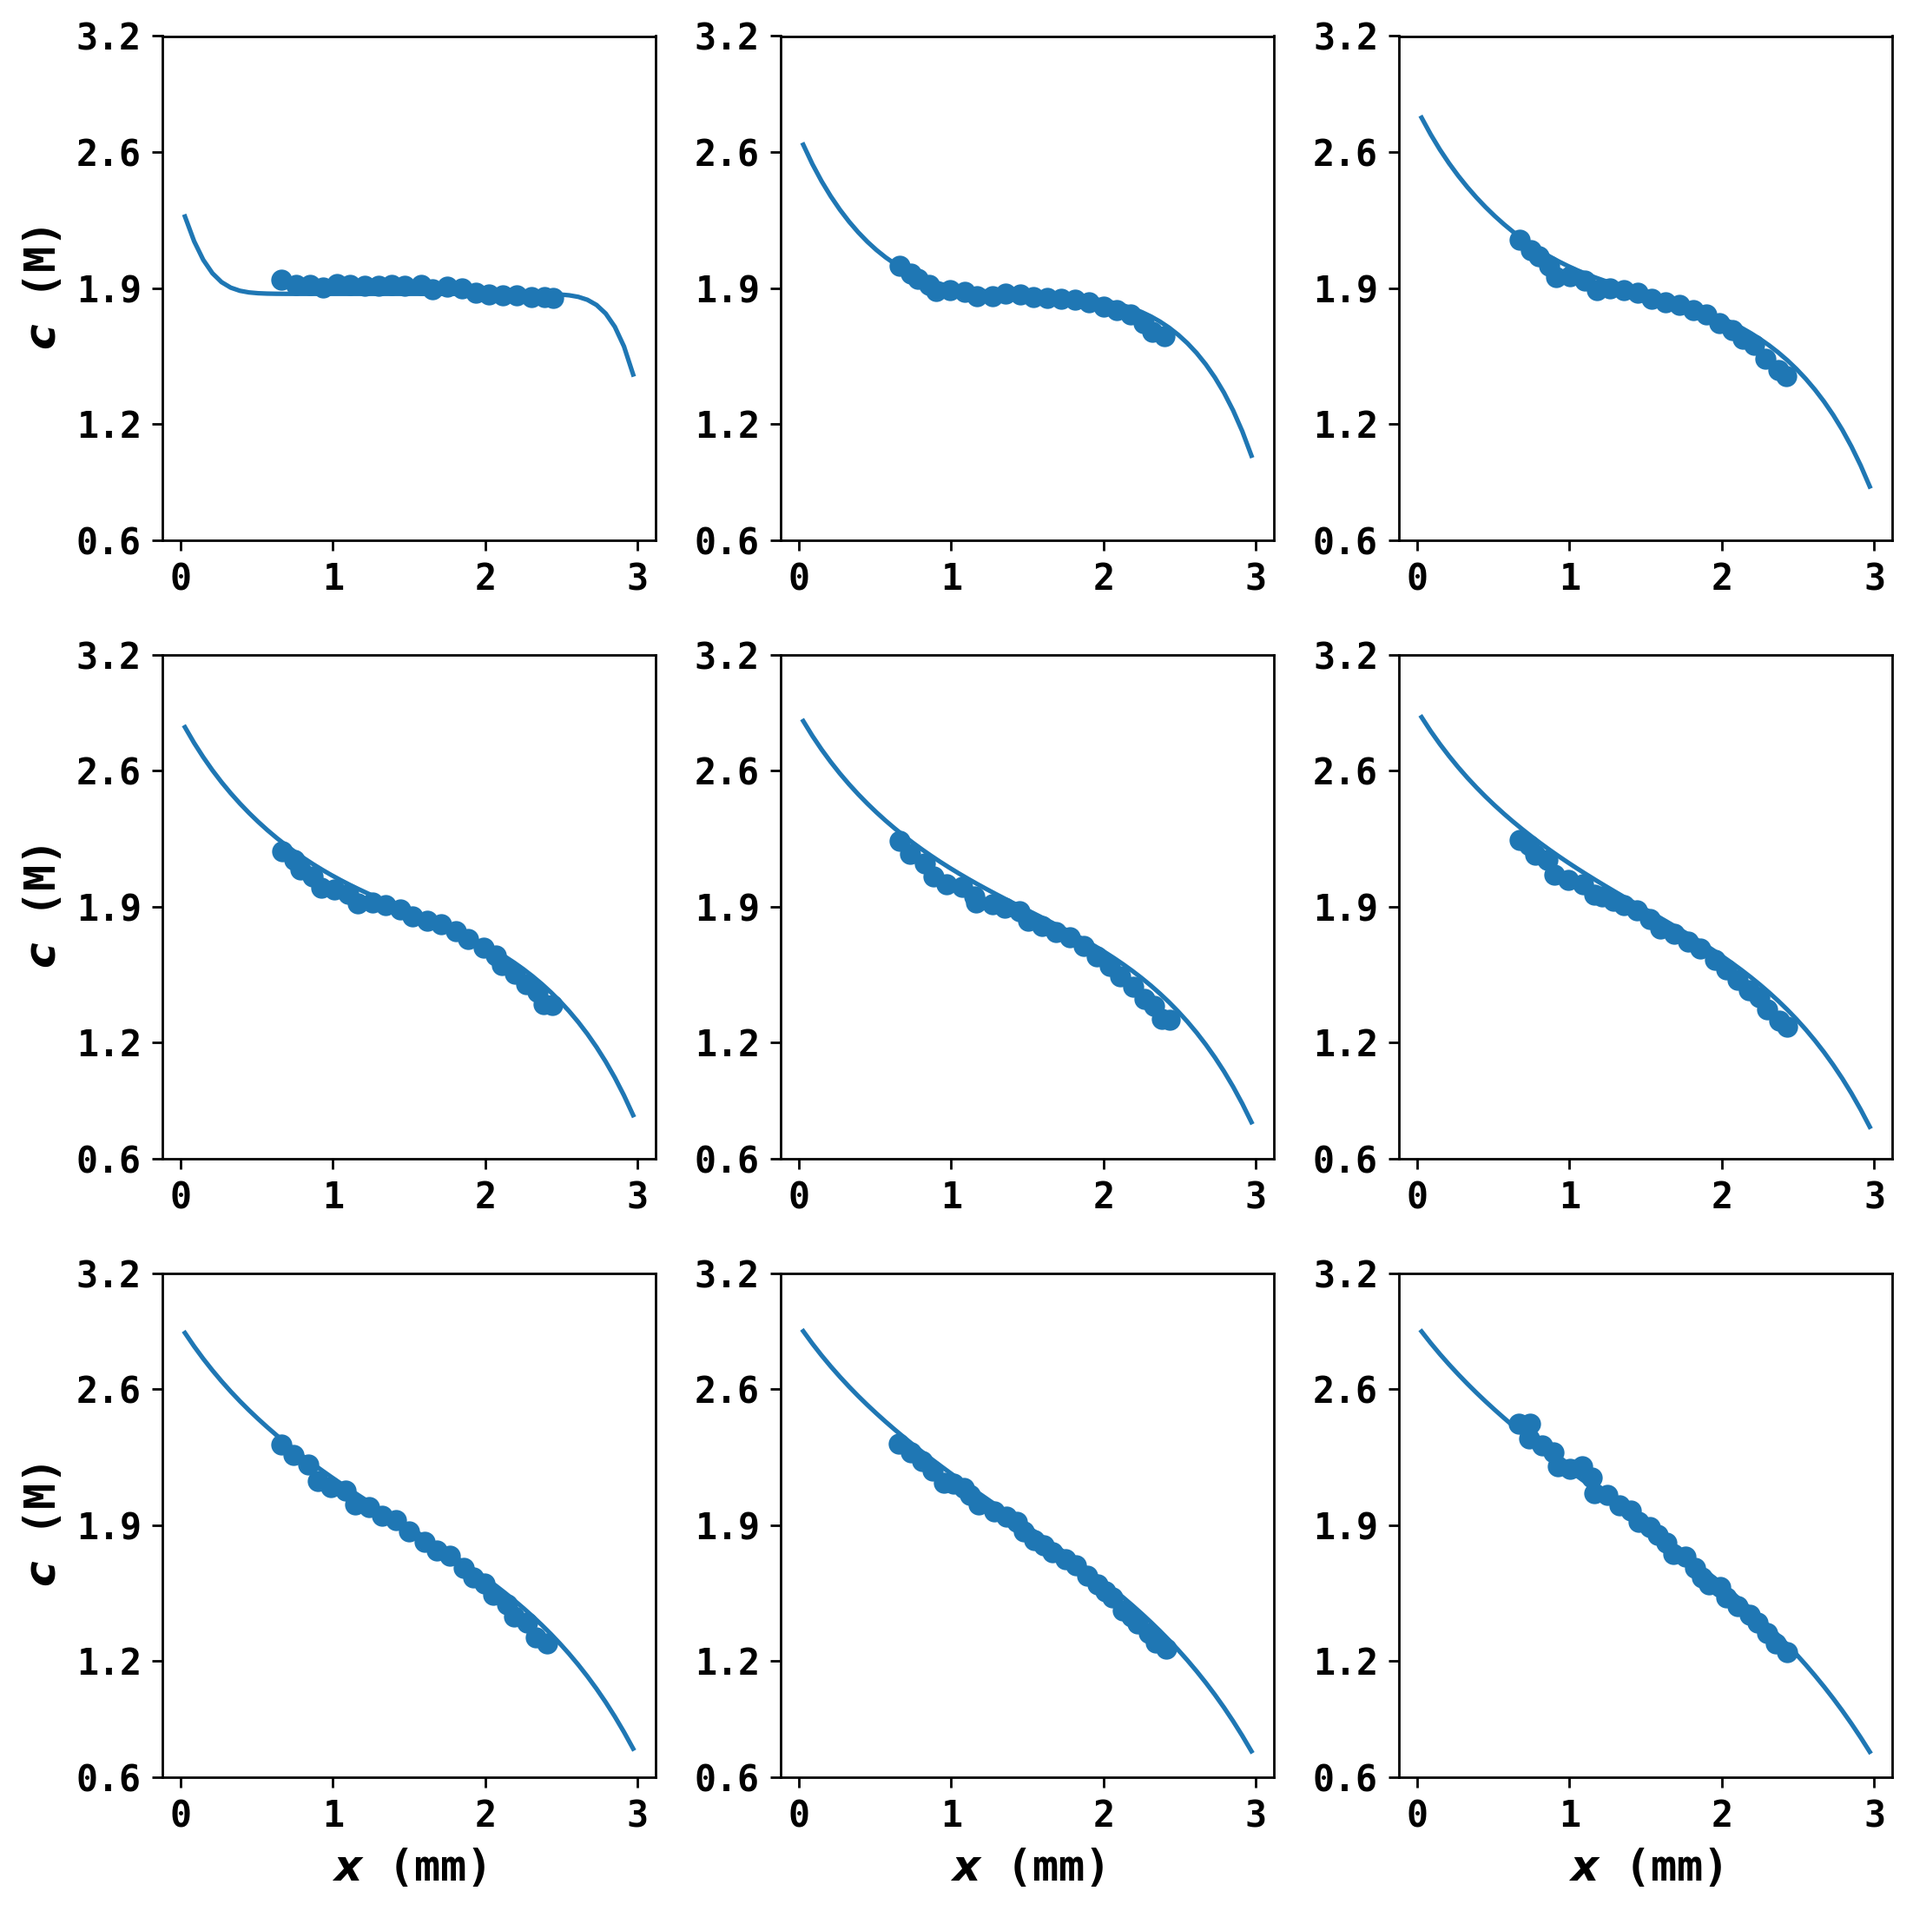
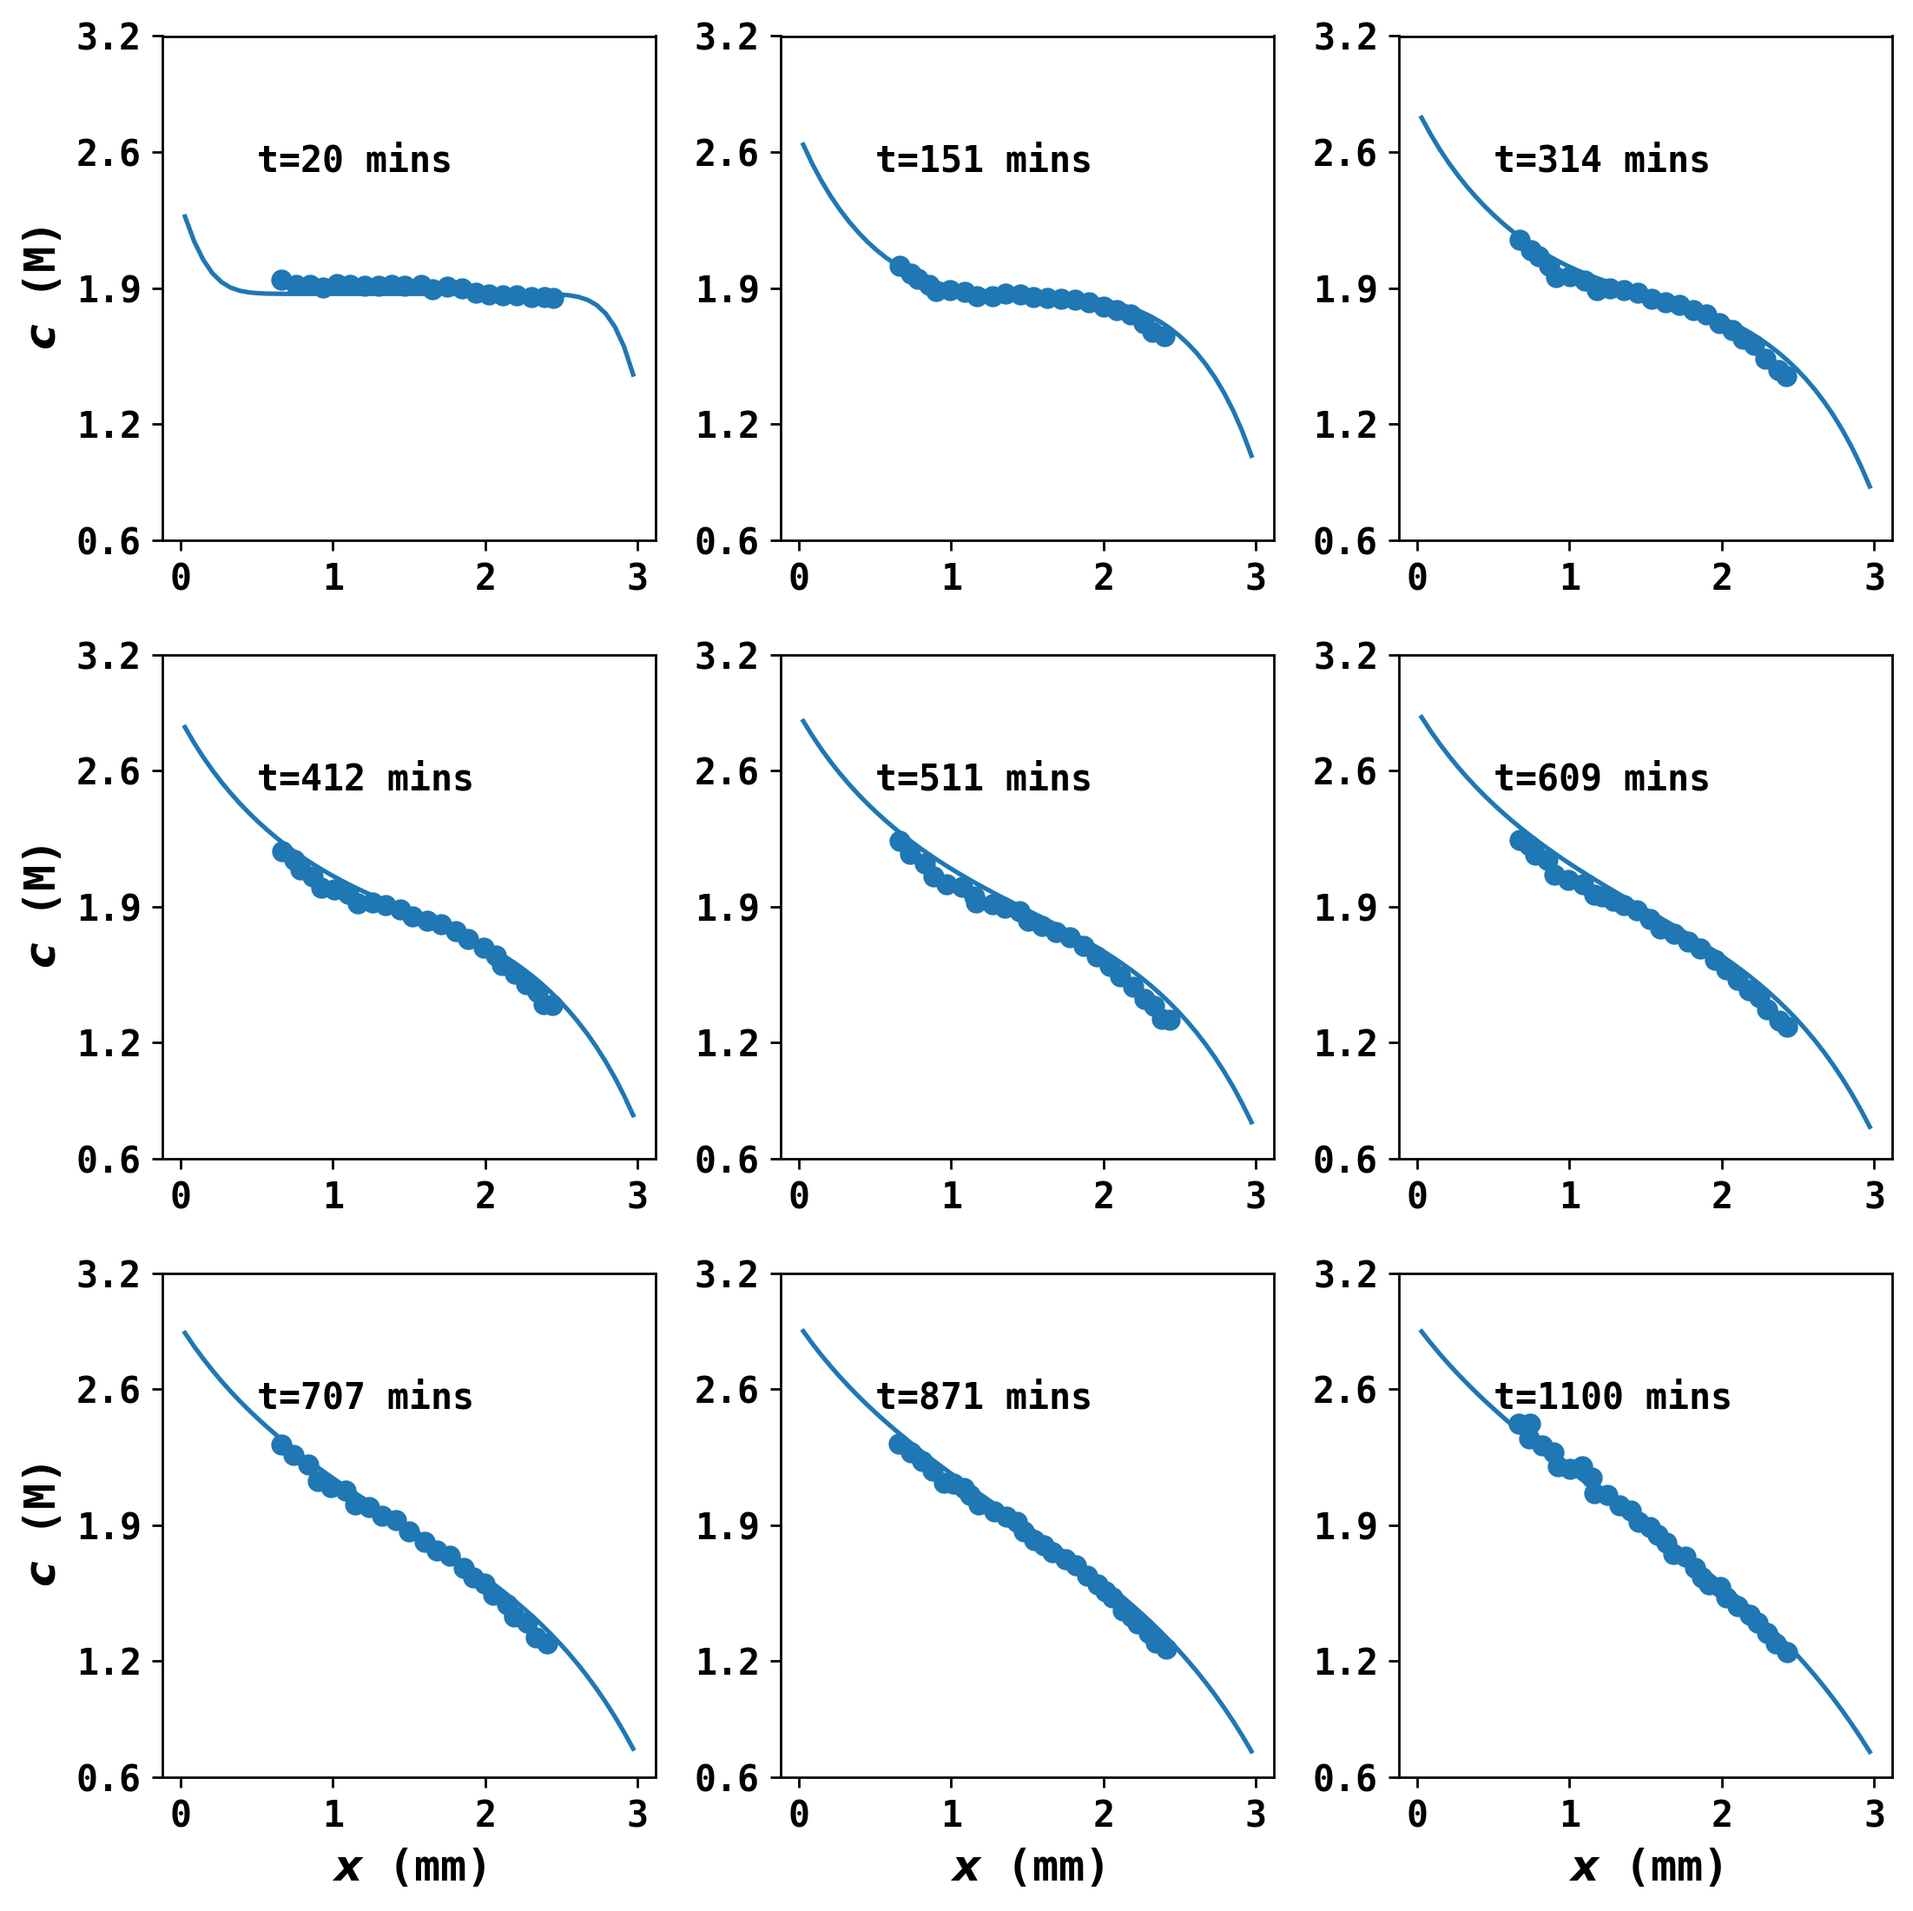
BetterVisuals

diff --git a/Mass Transport in Concentrated Electrolytes and Benchmarks/plot.py b/Mass Transport in Concentrated Electrolytes and Benchmarks/plot.py
@@ -58,6 +58,8 @@ plt.close()
 # Load experimental data
 c_data = load_c_data()
 
+time_points = [20,151,314,412,511,609,707,871,1100]
+
 fig, ax = plt.subplots(3, 3, figsize=(9, 9))
 for i in range(3):
     for j in range(3):
@@ -73,6 +75,9 @@ for i in range(3):
         # Only set xlabel on the bottom row
         if i == 2:
             ax[i, j].set_xlabel(r"$x$ (mm)", fontsize='large',fontweight='bold')
+
+
+        ax[i,j].text(0.5,2.5,s=f"t={time_points[i*3+j]:.0f} mins")
 plt.tight_layout()
 fig.savefig('concentration_comparison.png', bbox_inches='tight', dpi=250)
 
@@ -85,6 +90,9 @@ v_interface = -i_func(t * 3600) / Faraday * MLi / rho_Li
 
 num_steps = len(t)
 fig, ax = plt.subplots(2, 3, figsize=(12, 8))
+
+spatial_coordinates = [0.95,1.30,1.65,2.0,2.35]
+
 for i in range(2):
     for j in range(3):
         if i*3+j >= len(vel_data):  
@@ -100,6 +108,8 @@ for i in range(2):
         # Only set xlabel on the bottom row and the last column on the top row
         if i == 1 or (i == 0 and j == 2):
             ax[i, j].set_xlabel(r"$t$ (h)")
+
+        ax[i,j].text(5,10,s=f'x={spatial_coordinates[2*i+j]} mm')
 
 # Hide the unused subplot in second row, last column
 fig.delaxes(ax[1, 2])  # Deletes the last axis

diff --git a/README.md b/README.md
@@ -24,8 +24,14 @@ A worflow of formulating a Differentiable Electrochemistry simulator and perform
 ## Software Requirements 
 Python 3.11 and JAX 0.4.34
 
+It's also very important to enable float64 for JAX to enable high precision computing. float32 by default will not work for some cases. 
+
+
+```jax.config.update("jax_enable_x64", True)```
+
+
 ## Hardware Requirements 
-Hardware requirements varies in the forward vs. reverse mode. If simulations are performed only in the forward mode, the memory requirement is similar to conventional simulator (a few Gigabytes would suffice). On the contrary, if simulations are performed in the reverse mode for gradient computation, the memory requirement scales with the space and time steps during the simulation. For nonlinear and linear problems, ~80 or 10 GB is recommended.  
+Hardware requirements varies in the forward vs. reverse mode. If simulations are performed only in the forward mode, the memory requirement is similar to conventional simulator (a few Gigabytes would suffice). On the contrary, if simulations are performed in the reverse mode for gradient computation, the memory requirement scales with the space and time steps during the simulation. For nonlinear or linear problems, ~80 or 10 GB is recommended.  
 
 # Differentiable Simulators
 Since Differentiable Simulation is a new regime in scientific modeling, it is thus very important for beginners to learn the art of differentiable simulation and differentiable simulation in the context of electrochemistry. In here, five simulators that are fully differentiable and transferable are provided to enlighten readers the art of differentiable simulation. They five differentiable simulators are:
